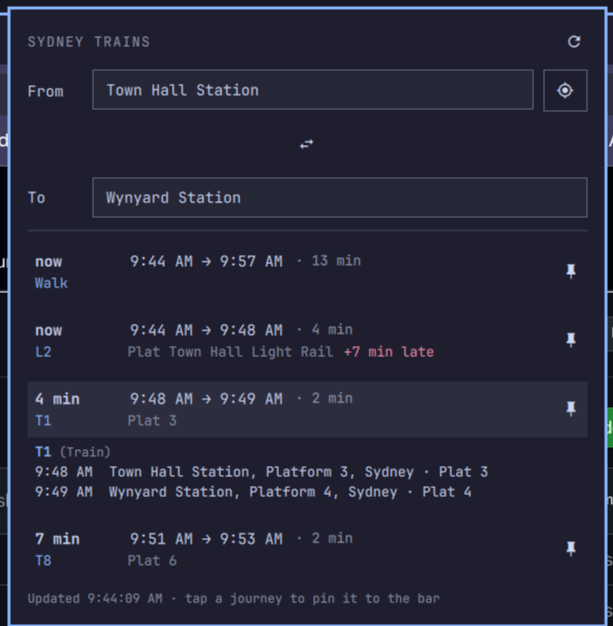
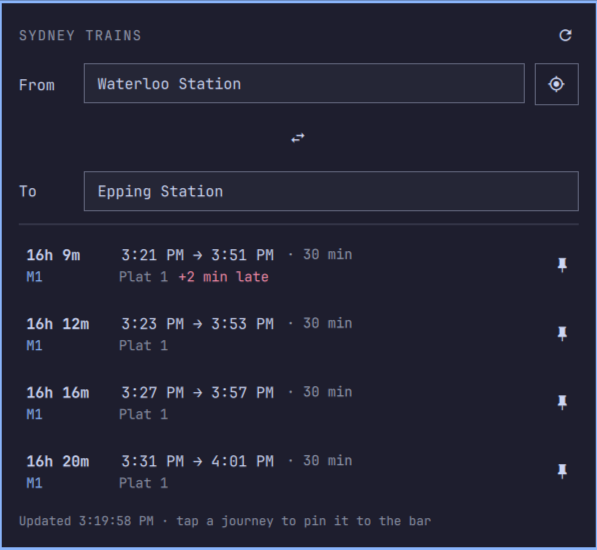
Enforce a response-size ceiling on every remote HTTP call
Security review blocker (issue #6079): all curl responses were
collected into StdioCollector with no byte limit. --max-time bounds
duration, not size, so a compromised endpoint or intermediary could
stream an unbounded body and pressure the shared shell process.

curlArgs()/curlArgsNoAuth() now build a `sh -c` pipeline piping curl
through `head -c <2 MiB + 1>` instead of returning a plain curl argv.
head closing its end of the pipe once it has read its fill sends curl
a SIGPIPE and stops the transfer immediately, which catches chunked/
streamed oversized bodies that curl's own --max-filesize (Content-
Length only) would miss. The existing write-auth-header-over-stdin
mechanism (-K -) is unaffected: a shell pipeline's first command still
inherits the shell's own stdin unredirected.

parseTrip()/parseStopFinder() reject a response that hit the ceiling
outright (isOversizedResponse) before ever calling JSON.parse on a
body truncated mid-token; Panel.qml's geoProc (no Model.parse* call)
gets the same guard inline. geoProc also moves off its own inlined
curl argv onto the shared curlArgsNoAuth() so it gets the same
ceiling.

Also update the README preview screenshot.

diff --git a/Model.js b/Model.js
@@ -47,24 +47,71 @@ function tripUrl(originId, destinationId, yyyymmdd, hhmm) {
     + "&version=10.2.1.42"
 }
 
-// curl argv shared by every request. `-fsS` = fail on HTTP error, silent,
-// still show errors. Short timeouts keep a flaky network from wedging the UI.
+// ---- response-size ceiling -------------------------------------------------
 //
-// The API key is deliberately NOT here: process argv (this array) is
+// Every curl call below is piped through `head -c` so a compromised or
+// MITM'd endpoint can't grow the response body past this many bytes,
+// regardless of Content-Length or chunked framing — curl's own
+// --max-filesize only limits downloads with a known Content-Length,
+// which does not reliably catch a chunked/streamed oversized body. `head
+// -c` reading LIMIT+1 bytes then closing its end of the pipe sends curl a
+// SIGPIPE and stops the transfer immediately, so the shared shell process
+// never buffers more than this ceiling no matter how much the endpoint
+// tries to send. 2 MiB is generous: a full TfNSW stop_finder/trip
+// response and an ipapi.co geolocation reply are all well under 200 KB in
+// practice.
+var MAX_RESPONSE_BYTES = 2 * 1024 * 1024
+
+// Single-quote a string for safe use as one word in a POSIX shell command
+// line: close the quote, emit an escaped literal quote, reopen it.
+function shellQuote(s) {
+  return "'" + String(s || "").replace(/'/g, "'\\''") + "'"
+}
+
+function cappedPipeline(curlCommandLine) {
+  return curlCommandLine + " | head -c " + String(MAX_RESPONSE_BYTES + 1)
+}
+
+// True once a response has hit (or been made to hit, by an oversized/
+// malicious body) the head -c ceiling above — callers should treat this
+// as a failure and skip JSON.parse entirely rather than parse a body
+// truncated mid-token. `text.length` here is UTF-16 code units rather
+// than the exact byte count head -c enforced, but that only matters for
+// distinguishing "exactly at the ceiling" from "one code point over" —
+// either way, a real TfNSW/ipapi.co reply is never within two orders of
+// magnitude of this limit, so the approximation can't mask a real
+// oversized-response condition.
+function isOversizedResponse(text) {
+  return String(text || "").length > MAX_RESPONSE_BYTES
+}
+
+// curl argv shared by every authenticated request (stop_finder, trip).
+// `-fsS` = fail on HTTP error, silent, still show errors. Short timeouts
+// keep a flaky network from wedging the UI. Returned as a `sh -c` argv
+// (see cappedPipeline) rather than a plain curl argv, so every caller
+// gets the response-size ceiling above for free.
+//
+// The API key is deliberately not a curl argument: process argv is
 // world-readable via /proc/<pid>/cmdline and `ps`, so a key embedded in a
 // `-H "Authorization: ..."` argument leaks to any other process on the
 // machine for as long as the curl call is running. Instead `-K -` tells
 // curl to read a config file from its own stdin; the caller writes the
 // header there over the pipe (see authConfigStdin below), which is a
 // private fd between Quickshell and the curl child, invisible to procfs
-// and never appears in a process listing or a `qs log`/shell trace.
+// and never appears in a process listing or a `qs log`/shell trace. `sh
+// -c 'cmd1 | cmd2'` still hands its own stdin straight to cmd1 (curl)
+// unredirected, so that write-then-close-stdin pattern keeps working
+// unchanged through this pipeline.
 function curlArgs(url, maxSeconds) {
-  return [
-    "curl", "-fsS",
-    "--max-time", String(maxSeconds || 8),
-    "-K", "-",
-    url
-  ]
+  return ["sh", "-c", cappedPipeline(
+    "curl -fsS --max-time " + String(maxSeconds || 8) + " -K - " + shellQuote(url))]
+}
+
+// Same as curlArgs, for the one caller (Panel.qml's "use my location")
+// that has no Authorization header to send.
+function curlArgsNoAuth(url, maxSeconds) {
+  return ["sh", "-c", cappedPipeline(
+    "curl -fsS --max-time " + String(maxSeconds || 8) + " " + shellQuote(url))]
 }
 
 // The curl config-file line carrying the Authorization header, fed over
@@ -80,6 +127,9 @@ function authConfigStdin(apiKey) {
 
 // -> [{ id, name, disassembledName, type, isBest }]
 function parseStopFinder(raw) {
+  // Reject an overflowed (truncated-by-head-c) body outright rather than
+  // feeding it to JSON.parse — see MAX_RESPONSE_BYTES.
+  if (isOversizedResponse(raw)) return []
   try {
     var data = JSON.parse(String(raw || "{}"))
     var locs = data.locations || []
@@ -204,6 +254,9 @@ function legDetails(legs) {
 //       delayMin, changes, platform, lines:[..], modes:[..],
 //       originName, destName, legs:[..] }]
 function parseTrip(raw) {
+  // Reject an overflowed (truncated-by-head-c) body outright rather than
+  // feeding it to JSON.parse — see MAX_RESPONSE_BYTES.
+  if (isOversizedResponse(raw)) return []
   try {
     var data = JSON.parse(String(raw || "{}"))
     var journeys = data.journeys || []
@@ -305,7 +358,9 @@ if (typeof module !== "undefined") {
   module.exports = {
     stopFinderUrl: stopFinderUrl, tripUrl: tripUrl,
     isCoordId: isCoordId, coordId: coordId,
-    curlArgs: curlArgs, authConfigStdin: authConfigStdin, parseStopFinder: parseStopFinder,
+    curlArgs: curlArgs, curlArgsNoAuth: curlArgsNoAuth, authConfigStdin: authConfigStdin,
+    isOversizedResponse: isOversizedResponse, MAX_RESPONSE_BYTES: MAX_RESPONSE_BYTES,
+    parseStopFinder: parseStopFinder,
     parseTrip: parseTrip,
     countdownLabel: countdownLabel, delayLabel: delayLabel,
     punctuality: punctuality, normalizeConfig: normalizeConfig,

diff --git a/Panel.qml b/Panel.qml
@@ -309,11 +309,14 @@ Panel {
 
   Process {
     id: geoProc
-    command: ["curl", "-fsS", "--max-time", "6", "https://ipapi.co/json/"]
+    command: Model.curlArgsNoAuth("https://ipapi.co/json/", 6)
     stdout: StdioCollector {
       waitForEnd: true
       onStreamFinished: {
         root.locating = false
+        // Reject an overflowed (truncated-by-head-c) body outright rather
+        // than feeding it to JSON.parse — see Model.MAX_RESPONSE_BYTES.
+        if (Model.isOversizedResponse(text)) { root.status = "Could not detect location"; return }
         try {
           var j = JSON.parse(String(text || "{}"))
           if (j.latitude && j.longitude) {
